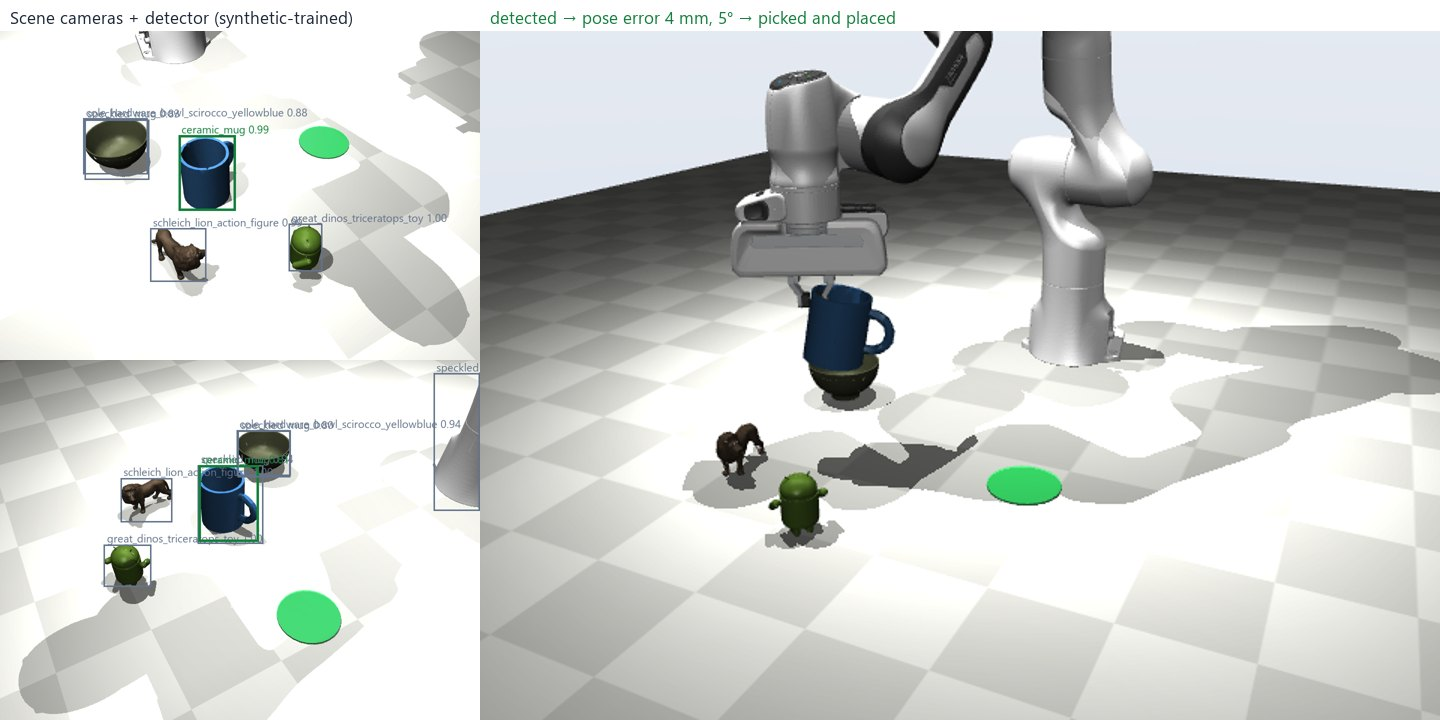
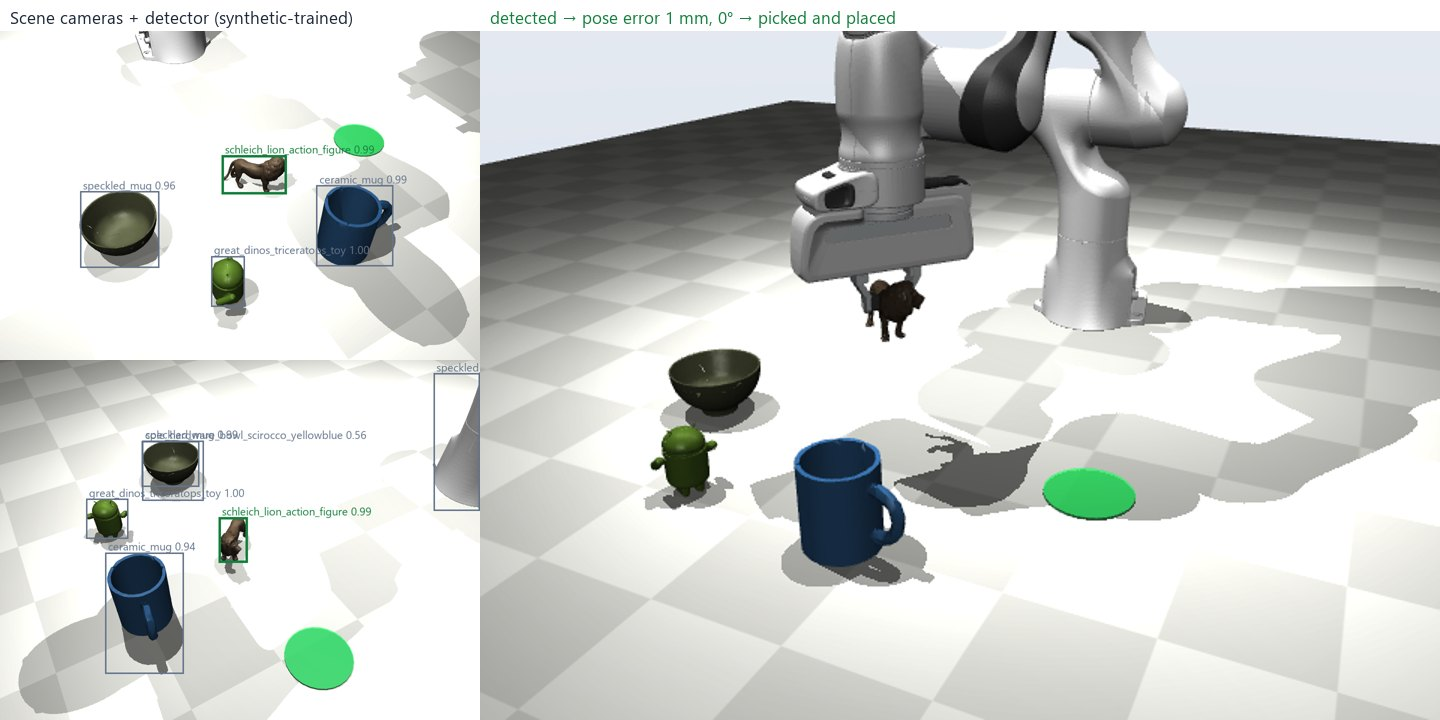
Perception pick: lion figure with a torso pinch (10/10, 0.6 mm / 0.3 deg); mug becomes a distractor

diff --git a/docs/overview.html b/docs/overview.html
@@ -124,7 +124,7 @@
     <p class="cap">Synthetic validation saturates either way: it's from the same distribution, so it can't show the gap. Only real photos do. The remaining false positives are mostly a second partial Buddha box or a marker card. 900 training images, 6 epochs, 5.5 min on an RTX 4090.</p></div>
 </div>
 <div class="card" style="margin-top:12px"><h3>Closing the loop: see it, locate it, pick it</h3><img src="figures/perception_pick.webp" alt="Perception-in-the-loop pick">
-    <p class="cap">In MuJoCo, the mug lands at a random pose among other scans. Two RGB-D scene cameras → the synthetic-trained detector finds it (left, green) → depth inside the box is fitted with the <b>scanned mesh</b> → the Panda picks at the <b>estimated</b> pose. <b>10/10 picks</b>, median pose error 4.6 mm / 4.8°. In 3 trials the handle was hidden from both cameras, so yaw couldn't be observed (off by 44–149°); the rim grasp doesn't need the handle, so those picks still worked. The scan is used three times: training images, pose model, and physics.</p></div>
+    <p class="cap">In MuJoCo, the lion figure lands at a random pose among other scans (our scanned mug is now a distractor). Two RGB-D scene cameras → the synthetic-trained detector finds it (left, green) → depth inside the box is fitted with the <b>scanned mesh</b> → the Panda pinches the torso from above, across the body, at the <b>estimated</b> pose. <b>10/10 picks</b>, median pose error 0.6 mm / 0.3°. Unlike the mug (whose handle can hide from both cameras), the lion's head and tail make yaw unambiguous, and the grasp needs it: closing along the body instead of across it would miss. The scan is used three times: training images, pose model, and physics.</p></div>
 
 <h2>How accurate must a scan be?</h2>
 <div class="card" style="margin-bottom:12px">

diff --git a/scripts/demo_perception_pick.py b/scripts/demo_perception_pick.py
@@ -1,15 +1,18 @@
-"""Perception-in-the-loop pick: detect the scanned mug, estimate its pose, then pick it.
+"""Perception-in-the-loop pick: detect the lion figure, estimate its pose, then pick it.
 
     python scripts/demo_perception_pick.py [--trials 5] [--out docs/figures]
 
 Closes the loop from scan to robot behavior, using only Scan2USD outputs:
 
-1. The scanned mug is dropped at a random position and yaw among other scanned objects.
+1. The lion (a scanned Google Scanned Objects asset) is dropped at a random position and yaw
+   among other scanned objects, including our own photo-scanned mug as a distractor.
 2. Two fixed scene cameras render RGB + depth (MuJoCo).
-3. The detector trained only on Isaac Sim synthetic data (scripts/train_detector.py) finds the mug.
+3. The detector trained only on Isaac Sim synthetic data (scripts/train_detector.py) finds the lion.
 4. Depth pixels inside the box are back-projected to 3D, and the scanned mesh is fitted to them
-   (yaw grid search + translation ICP, mug upright on the table): that's the pose estimate.
-5. The Franka Panda (scripts/demo_panda.py) rim-grasps at the *estimated* pose and places the mug.
+   (yaw grid search + translation ICP, standing upright on the table): that's the pose estimate.
+   The lion has a head and a tail, so a wrong yaw means grasping it across the wrong axis.
+5. The Franka Panda (scripts/demo_panda.py) pinches the torso from above at the *estimated* pose,
+   closing across the body, then carries and places it.
 
 Reports detection, pose error (mm, degrees) and pick success per trial.
 """
@@ -29,7 +32,7 @@ from PIL import Image, ImageDraw
 from scipy.spatial import cKDTree
 
 sys.path.insert(0, str(Path(__file__).resolve().parent))
-from demo_panda import HOME, MUG_POS, PANDA, PLACE_SHIFT, Arm, build_scene, execute, plan_pick, rim_grasp  # noqa: E402
+from demo_panda import HOME, MUG_POS, PANDA, PLACE_SHIFT, Arm, build_scene, execute, plan_pick  # noqa: E402
 from train_detector import build_model  # noqa: E402
 
 from scan2usd.mjcf import asset_body  # noqa: E402
@@ -94,10 +97,10 @@ def _icp_xy(tree, observed, t0, iters):
 
 
 def fit_pose(observed: np.ndarray, model_pts: np.ndarray, init_xy: np.ndarray | None = None):
-    """Upright mug: yaw grid search, translation-only ICP in xy. Returns (x, y, yaw, residual m).
+    """Upright object: yaw grid search, translation-only ICP in xy. Returns (x, y, yaw, residual m).
 
     Each yaw starts with the model's median aligned to the observed median, so the origin
-    offset from the cup axis (the handle shifts the bounding-box center) doesn't bias the search.
+    offset from the body's center doesn't bias the search.
     """
     o_med = np.median(observed, axis=0)
     best = None
@@ -118,34 +121,47 @@ def fit_pose(observed: np.ndarray, model_pts: np.ndarray, init_xy: np.ndarray | 
     return best
 
 
-def detect(det_model, cats, rgb, device, target="ceramic_mug", min_score=0.5):
+def torso_grasp(mesh, com, offset, yaw: float, depth: float = 0.015):
+    """Top-down pinch across the body at the center of mass (world TCP target, closing direction).
+
+    mesh/com are in the asset frame (long axis = x); yaw and offset place it in the world.
+    """
+    v = mesh.vertices
+    top = v[np.abs(v[:, 0] - com[0]) < 0.004, 2].max()
+    point = rot_z(yaw) @ np.array([com[0], com[1], 0.0]) + offset
+    point[2] = top - depth
+    return point, rot_z(yaw) @ np.array([0.0, 1.0, 0.0])
+
+
+def detect(det_model, cats, rgb, device, target="schleich_lion_action_figure", min_score=0.5):
     from torchvision.transforms import functional as F
     with torch.no_grad():
         out = det_model([F.to_tensor(rgb).to(device)])[0]
     boxes, scores, labels = (out[k].cpu().numpy() for k in ("boxes", "scores", "labels"))
     dets = [(cats[int(l)], float(s), b) for b, s, l in zip(boxes, scores, labels) if s >= min_score]
-    mug = [d for d in dets if d[0] == target]
-    return (max(mug, key=lambda d: d[1]) if mug else None), dets
+    hits = [d for d in dets if d[0] == target]
+    return (max(hits, key=lambda d: d[1]) if hits else None), dets
 
 
 def trial(seed, asset, others, det_model, cats, device, render_video=False):
     rng = np.random.default_rng(seed)
-    mug_xy = MUG_POS[:2] + rng.uniform([-0.06, -0.06], [0.06, 0.04])
-    mug_yaw = rng.uniform(-np.pi, np.pi)
-    mug_pos = np.array([mug_xy[0], mug_xy[1], 0.0])
-    extras, placed = [], [mug_xy]
+    obj_xy = MUG_POS[:2] + rng.uniform([-0.06, -0.06], [0.06, 0.04])
+    obj_yaw = rng.uniform(-np.pi, np.pi)
+    obj_pos = np.array([obj_xy[0], obj_xy[1], 0.0])
+    extras, placed = [], [obj_xy]
     for k, other in enumerate(others):
         for _ in range(200):
             xy = np.array([rng.uniform(0.3, 0.72), rng.uniform(-0.34, 0.0)])
-            # Clear of the mug and each other, and out of the carry corridor (+y of the mug).
-            in_corridor = abs(xy[0] - mug_xy[0]) < 0.14 and xy[1] > mug_xy[1]
+            # Clear of the target and each other, and out of the carry corridor (+y of the target).
+            in_corridor = abs(xy[0] - obj_xy[0]) < 0.14 and xy[1] > obj_xy[1]
             if not in_corridor and all(np.linalg.norm(xy - p) > 0.17 for p in placed):
                 break
         placed.append(xy)
         extras.append(asset_body(other, f"obj{k}", pos=(xy[0], xy[1], 0.0),
                                  quat=yaw_quat(rng.uniform(-np.pi, np.pi)), collision="hulls"))
     work = ROOT / "data" / "work" / "perception_pick"
-    model = build_scene(asset, "hulls", work, mug_pos=mug_pos, mug_quat=yaw_quat(mug_yaw), extras=extras)
+    # demo_panda names the picked body "mug"; here it's whatever asset is passed in.
+    model = build_scene(asset, "hulls", work, mug_pos=obj_pos, mug_quat=yaw_quat(obj_yaw), extras=extras)
     arm = Arm(model)
     data = mujoco.MjData(model)
     mujoco.mj_resetDataKeyframe(model, data, model.key("home").id)
@@ -155,9 +171,9 @@ def trial(seed, asset, others, det_model, cats, device, render_video=False):
         data.ctrl[:7] = HOME
         data.qfrc_applied[arm.dadr] = data.qfrc_bias[arm.dadr]
         mujoco.mj_step(model, data)
-    mug = model.body("mug").id
-    true_xy = data.xpos[mug][:2].copy()
-    r = data.xmat[mug].reshape(3, 3)
+    obj = model.body("mug").id
+    true_xy = data.xpos[obj][:2].copy()
+    r = data.xmat[obj].reshape(3, 3)
     true_yaw = float(np.arctan2(r[1, 0], r[0, 0]))
 
     # --- perception -------------------------------------------------------------------
@@ -175,7 +191,7 @@ def trial(seed, asset, others, det_model, cats, device, render_video=False):
         observed.append(p)
     result = {"seed": seed, "detected_views": sum(v[1] is not None for v in views)}
     if not observed or sum(len(o) for o in observed) < 50:
-        result.update(success=False, reason="mug not detected")
+        result.update(success=False, reason="target not detected")
         return result, views, None
     obs = np.concatenate(observed)
     # Keep the biggest cluster near the median (a box can include a neighbor's pixels).
@@ -192,14 +208,12 @@ def trial(seed, asset, others, det_model, cats, device, render_video=False):
 
     # --- act on the estimate -------------------------------------------------------------
     est_pos = np.array([ex, ey, 0.0])
-    est_mesh = mesh.copy()
-    est_mesh.vertices = est_mesh.vertices @ rot_z(eyaw).T
-    grasp, radial = rim_grasp(est_mesh, est_pos)
-    plan = plan_pick(model, arm, grasp, radial)
+    grasp, closing = torso_grasp(mesh, asset.center_of_mass, est_pos, eyaw)
+    plan = plan_pick(model, arm, grasp, closing)
     data.time = 0.0
     cam = mujoco.MjvCamera()
-    cam.lookat[:] = (0.48, 0.0, 0.16)
-    cam.distance, cam.elevation, cam.azimuth = 1.15, -22, 205
+    cam.lookat[:] = (0.5, 0.0, 0.12)
+    cam.distance, cam.elevation, cam.azimuth = 0.98, -24, 205
     small = mujoco.Renderer(model, 480, 640) if render_video else None
 
     def render(d):
@@ -208,8 +222,8 @@ def trial(seed, asset, others, det_model, cats, device, render_video=False):
 
     frames, lifted = execute(model, arm, data, plan, render if render_video else None)
     target = true_xy + PLACE_SHIFT[:2]
-    final = data.xpos[mug]
-    up_axis = data.xmat[mug].reshape(3, 3)[:, 2]
+    final = data.xpos[obj]
+    up_axis = data.xmat[obj].reshape(3, 3)[:, 2]
     lift = lifted - asset.center_of_mass[2]
     placed_err = float(np.linalg.norm(final[:2] - target))
     upright = float(np.degrees(np.arccos(np.clip(up_axis[2], -1, 1))))
@@ -235,7 +249,8 @@ def detection_panel(views, cats_seen=None, width=480):
 
 def main() -> None:
     p = argparse.ArgumentParser()
-    p.add_argument("--asset", type=Path, default=ROOT / "output" / "demo" / "asset" / "ceramic_mug.usda")
+    gso = {Path(q).stem: q for q in glob.glob(str(ROOT / "output" / "gso_assets" / "*" / "*.usda"))}
+    p.add_argument("--asset", type=Path, default=Path(gso.get("schleich_lion_action_figure", "lion.usda")))
     p.add_argument("--detector", type=Path, default=ROOT / "output" / "detector_dr")
     p.add_argument("--data", type=Path, default=ROOT / "output" / "synth_dr")
     p.add_argument("--trials", type=int, default=10)
@@ -252,9 +267,9 @@ def main() -> None:
     det_model.to(device).eval()
 
     asset = read_usd(args.asset)
-    gso = {Path(q).stem: q for q in glob.glob(str(ROOT / "output" / "gso_assets" / "*" / "*.usda"))}
-    others = [read_usd(gso[n]) for n in ("schleich_lion_action_figure", "great_dinos_triceratops_toy",
-                                          "cole_hardware_bowl_scirocco_yellowblue") if n in gso]
+    distractors = [gso.get("great_dinos_triceratops_toy"), gso.get("cole_hardware_bowl_scirocco_yellowblue"),
+                   str(ROOT / "output" / "demo" / "asset" / "ceramic_mug.usda")]
+    others = [read_usd(q) for q in distractors if q and Path(q).exists()]
 
     results, first = [], None
     for seed in range(args.trials):

diff --git a/scripts/make_demo_reel.py b/scripts/make_demo_reel.py
@@ -57,7 +57,7 @@ SEGMENTS = [
     ("sim2real_compare.jpg", "Sim-to-real: trained only on renders",
      "On 67 real photos: object found in 100%; distractors cut false positives by 84%", 5),
     ("perception_pick.webp", "See it, locate it, pick it",
-     "Detector → fit the scanned mesh to RGB-D → Panda picks at the estimate: 10/10, 4.6 mm median error", 7),
+     "Detector → fit the scanned lion to RGB-D → Panda picks at the estimate: 10/10, 0.6 mm median error", 7),
     ("holder_fit_lead.jpg", "Own phone photos: does the scan behave like the real thing?",
      "A holder and a controller, each scanned alone, then photographed together as the answer key", 5),
     ("holder_fit.webp", "Scanned controller settles into the scanned holder", _holder_subtitle(), 6),

diff --git a/README.md b/README.md
@@ -62,7 +62,7 @@ The three well-textured benchmark objects reconstruct to 0.6–0.8 mm. Plain or 
 
 ![Sim-to-real](docs/figures/sim2real_compare.jpg)
 
-**Sim-to-real perception.** A detector trained only on 900 domain-randomized Isaac Sim renders of the scanned assets finds the object in **100%** of 67 real photos; unlabeled distractors in training cut false positives by 84%. It then drives a [see-locate-pick loop](docs/figures/perception_pick.webp): detector → fit the scanned mesh to RGB-D → 10/10 picks. `scripts/train_detector.py`
+**Sim-to-real perception.** A detector trained only on 900 domain-randomized Isaac Sim renders of the scanned assets finds the object in **100%** of 67 real photos; unlabeled distractors in training cut false positives by 84%. It then drives a [see-locate-pick loop](docs/figures/perception_pick.webp): detector → fit the scanned lion's mesh to RGB-D → 10/10 picks at 0.6 mm / 0.3° median pose error. `scripts/train_detector.py`
 
 ![Uncertainty](docs/figures/uncertainty.png)
 
